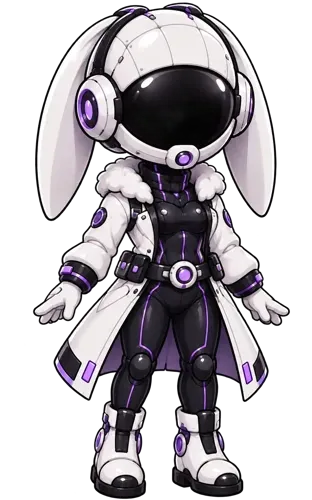
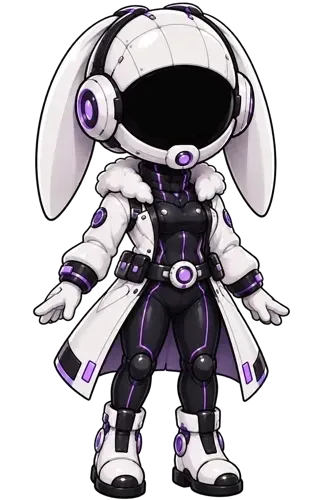
Match Sae's visor emotion to the restore panel state + action panel design fix
-- "Печатаем?" shows curiosity, errors after printing show confusion
-- Restored passage shows love instead of delight

Changed region(s): [[0.4327, 0.12, 0.75, 0.21]]

diff --git a/src/components/GapText/gapText.vue b/src/components/GapText/gapText.vue
@@ -1,3 +1,12 @@
+<script lang="ts">
+import type { TVisorEmotion } from '@/components/Visor/visorFaces';
+
+export type TSaePhrase = {
+  text: string,
+  emotion?: TVisorEmotion,
+};
+</script>
+
 <script setup lang="ts">
 import { IonContent, IonIcon, IonModal } from '@ionic/vue';
 import { chevronBack, chevronForward } from 'ionicons/icons';
@@ -15,7 +24,7 @@ const props = defineProps<{
   carriage?: boolean,
   disabled?: boolean, // во время печати выбор закрыт
   panelTarget?: HTMLElement | null,
-  phrase?: string, // реплика Саэ в облачке, когда активного пропуска нет
+  phrase?: TSaePhrase, // реплика Саэ в облачке, когда активного пропуска нет
   finished?: boolean, // абзац восстановлен: стрелки и клавиши больше не нужны
 }>();
 
@@ -76,6 +85,23 @@ const nextIndex = computed( (): number => findSelectable( active.value + 1, 1 ))
 const hasNav = computed( (): boolean => gaps.value.length > 1 );
 const filledCount = computed( (): number => drafts.value.filter( ( draft: string | null ) => draft !== null ).length );
 const isFilled = computed( (): boolean => filledCount.value === gaps.value.length );
+const shownPhrase = computed( (): TSaePhrase | null => activeGap.value ? null : props.phrase ?? null );
+
+const emotion = computed( (): TVisorEmotion => {
+  if ( shownPhrase.value?.emotion ) {
+    return shownPhrase.value.emotion;
+  }
+
+  if ( props.finished ) {
+    return 'love';
+  }
+
+  if ( !props.disabled && results.value.includes( 'wrong' )) {
+    return 'confusion';
+  }
+
+  return isFilled.value ? 'smile' : 'interest';
+});
 
 watch( () => props.text, () => {
   active.value = 0;
@@ -135,6 +161,13 @@ defineExpose({
 
     <Teleport :disabled="!props.panelTarget" :to="props.panelTarget">
       <div :class="styles.gapText__panel">
+        <UiProgressBar
+            v-if="false"
+            :class="[ styles.gapText__progressBar, { [styles.gapText__progressBar_finished]: props.finished } ]"
+            :total="gaps.length"
+            :value="filledCount"
+        />
+
         <div :class="styles.gapText__sae">
           <div :class="styles.gapText__mascot">
             <img
@@ -144,17 +177,11 @@ defineExpose({
             />
 
             <div :class="styles.gapText__visor">
-              <VisorEmotion :emotion="props.finished ? 'delight' : isFilled ? 'smile' : 'interest'" />
+              <VisorEmotion :emotion="emotion" />
             </div>
           </div>
 
           <div :class="styles.gapText__hint">
-            <UiProgressBar
-                :class="[ styles.gapText__progressBar, { [styles.gapText__progressBar_finished]: props.finished } ]"
-                :total="gaps.length"
-                :value="filledCount"
-            />
-
             <button
                 v-if="activeRule"
                 :class="styles.gapText__cloud"
@@ -166,8 +193,8 @@ defineExpose({
               <ion-icon :class="styles.gapText__ruleArrow" :icon="chevronForward" />
             </button>
 
-            <div v-else-if="!activeGap && props.phrase" :class="styles.gapText__cloud">
-              {{ props.phrase }}
+            <div v-else-if="shownPhrase" :class="styles.gapText__cloud">
+              {{ shownPhrase.text }}
             </div>
           </div>
         </div>

diff --git a/src/views/RestorePage/restorePage.vue b/src/views/RestorePage/restorePage.vue
@@ -7,7 +7,7 @@ import styles from './restorePage.module.scss';
 import actionButton from '@/assets/styles/actionButton.module.scss';
 import AppHeader from '@/components/AppHeader/appHeader.vue';
 import InkLevel from '@/components/InkLevel/inkLevel.vue';
-import GapText from '@/components/GapText/gapText.vue';
+import GapText, { type TSaePhrase } from '@/components/GapText/gapText.vue';
 import { getPassageById } from '@/api/getPassageById';
 import type { TPassage } from '@/api/getPassages';
 import { getAuthors, getPassageSource, type TAuthor, type TPassageSource } from '@/api/getAuthors';
@@ -75,20 +75,20 @@ const remainingLabel = computed( (): string => {
 });
 
 // Реплика Саэ в облачке, пока активного пропуска нет
-const saePhrase = computed( (): string | undefined => {
+const saePhrase = computed( (): TSaePhrase | undefined => {
   if ( isPrinting.value ) {
-    return 'Печатаю…';
+    return { text: 'Печатаю…' };
   }
 
   if ( status.value === 'archived' ) {
-    return isTokenEarned.value ? 'Готово! Абзац в архиве.' : 'Готово, абзац снова в архиве.';
+    return { text: isTokenEarned.value ? 'Готово! Абзац в архиве.' : 'Готово, абзац снова в архиве.' };
   }
 
   if ( status.value === 'noInk' ) {
-    return 'Чернил не хватит. Начнём заново?';
+    return { text: 'Чернил не хватит. Начнём заново?' };
   }
 
-  return emptyCount.value === 0 ? 'Печатаем?' : undefined;
+  return emptyCount.value === 0 ? { text: 'Печатаем?', emotion: 'curiosity' } : undefined;
 });
 
 // Повтор абзаца из архива — чистая практика без жетона, поэтому и чернила на него не тратятся

diff --git a/src/components/GapText/gapText.module.scss b/src/components/GapText/gapText.module.scss
@@ -1,24 +1,26 @@
 .gapText {
   &__panel {
+    position: relative;
+    z-index: var( --ink-z-index-layout );
     display: flex;
     flex-direction: column;
     align-items: center;
     gap: var( --ink-size-gap-s );
-    margin-top: var( --ink-size-gap );
   }
 
   &__sae {
-    display: flex;
-    align-self: stretch;
-    align-items: center;
-    gap: var( --ink-size-gap-s );
+    align-self: flex-start;
+    position: relative;
+    padding-left: 100px;
+    min-height: 65px;
   }
 
   &__mascot {
-    position: relative;
-    flex-shrink: 0;
-    width: 88px;
-    height: 76px;
+    position: absolute;
+    left: -26px;
+    top: -22px;
+    width: 130px;
+    height: 90px;
     overflow: hidden;
     mask-image: linear-gradient( to bottom, var( --ink-color-black ) 78%, transparent );
   }
@@ -26,16 +28,16 @@
   &__mascotImage {
     position: absolute;
     top: 0;
-    left: -12px;
-    width: 113px;
+    left: 0;
+    width: 100%;
   }
 
   &__visor {
     position: absolute;
-    top: 19px;
-    left: 25px;
-    width: 30px;
-    aspect-ratio: 140 / 100;
+    top: 29px;
+    left: 55px;
+    width: 41px;
+    aspect-ratio: var( --ink-aspect-ratio-visor );
   }
 
   &__hint {
@@ -47,6 +49,9 @@
   }
 
   &__progressBar {
+    position: absolute;
+    top: -6px;
+    left: 0;
     height: 6px;
     color: var( --ink-color-progress );
   }

diff --git a/src/views/VisorPage/visorPage.module.scss b/src/views/VisorPage/visorPage.module.scss
@@ -27,7 +27,7 @@
     box-sizing: border-box;
     width: 100%;
     padding: 8%;
-    aspect-ratio: 140 / 100;
+    aspect-ratio: var( --ink-aspect-ratio-visor );
     border-radius: 50%;
     background: var( --ink-color-black );
   }

diff --git a/src/assets/styles/vars.scss b/src/assets/styles/vars.scss
@@ -16,6 +16,8 @@
   --ink-input-height: 56px;
   --ink-input-height-s: 40px;
 
+  --ink-aspect-ratio-visor: 140 / 101;
+
   --ink-z-index-layout: 100;
   --ink-z-index-tooltip: 200;
   --ink-z-index-dropdown: 300;

diff --git a/src/components/SaelianMascot/saelianMascot.module.scss b/src/components/SaelianMascot/saelianMascot.module.scss
@@ -12,6 +12,6 @@
     top: 14.8%;
     left: 35.6%;
     width: 29.4%;
-    aspect-ratio: 140 / 100;
+    aspect-ratio: var( --ink-aspect-ratio-visor );
   }
 }
